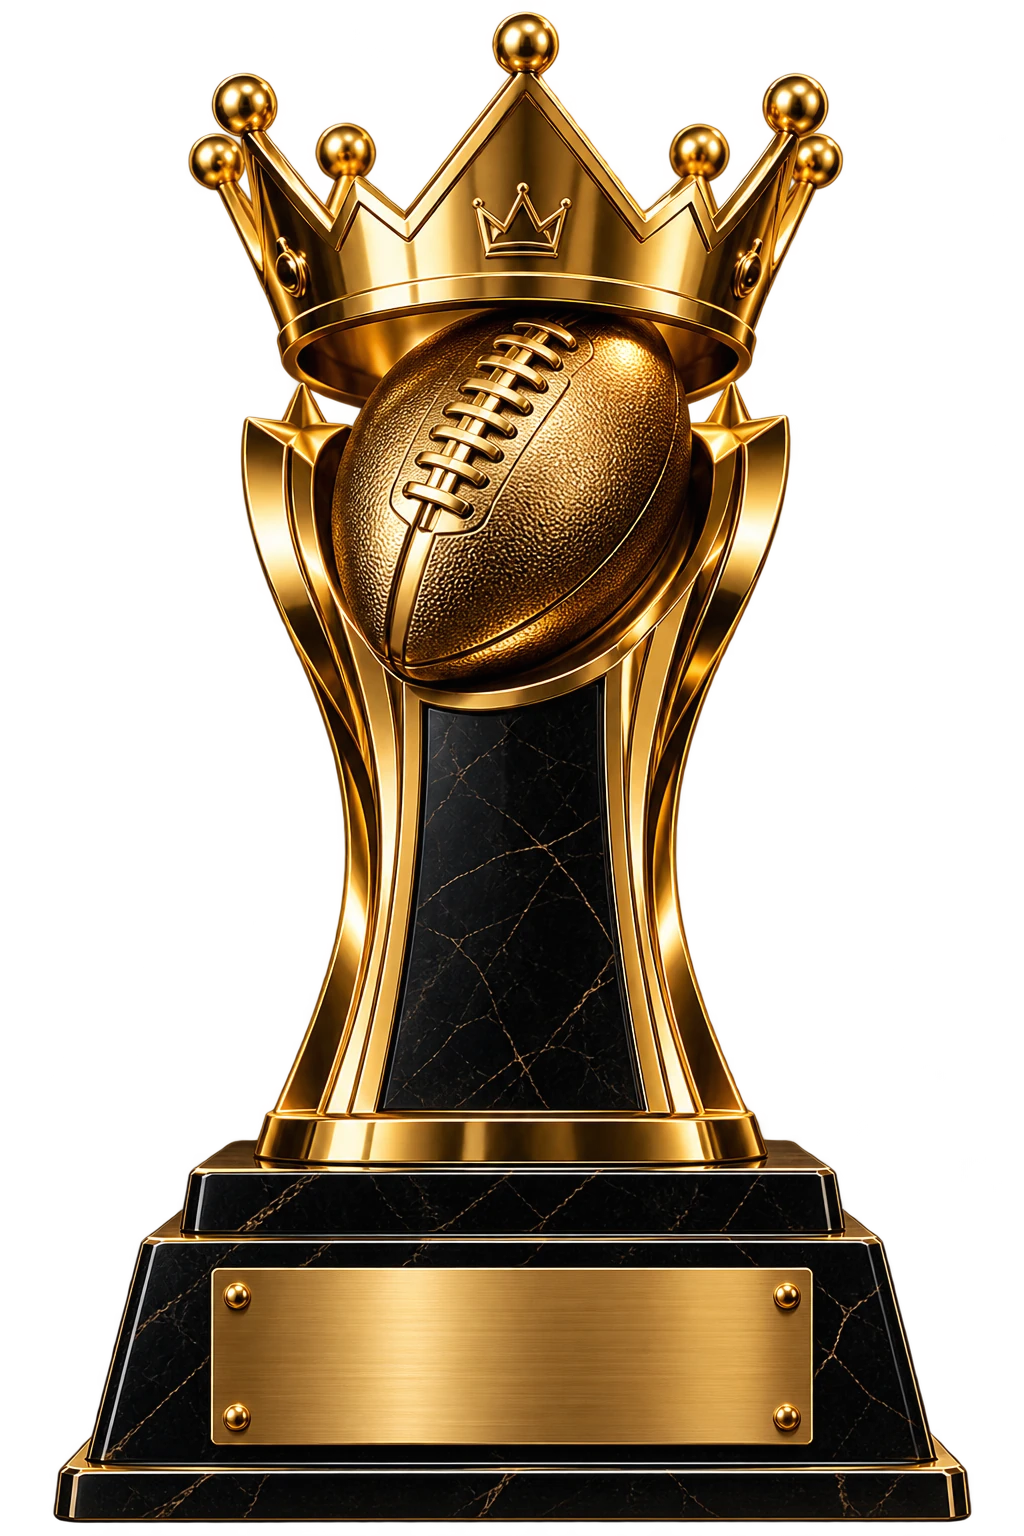
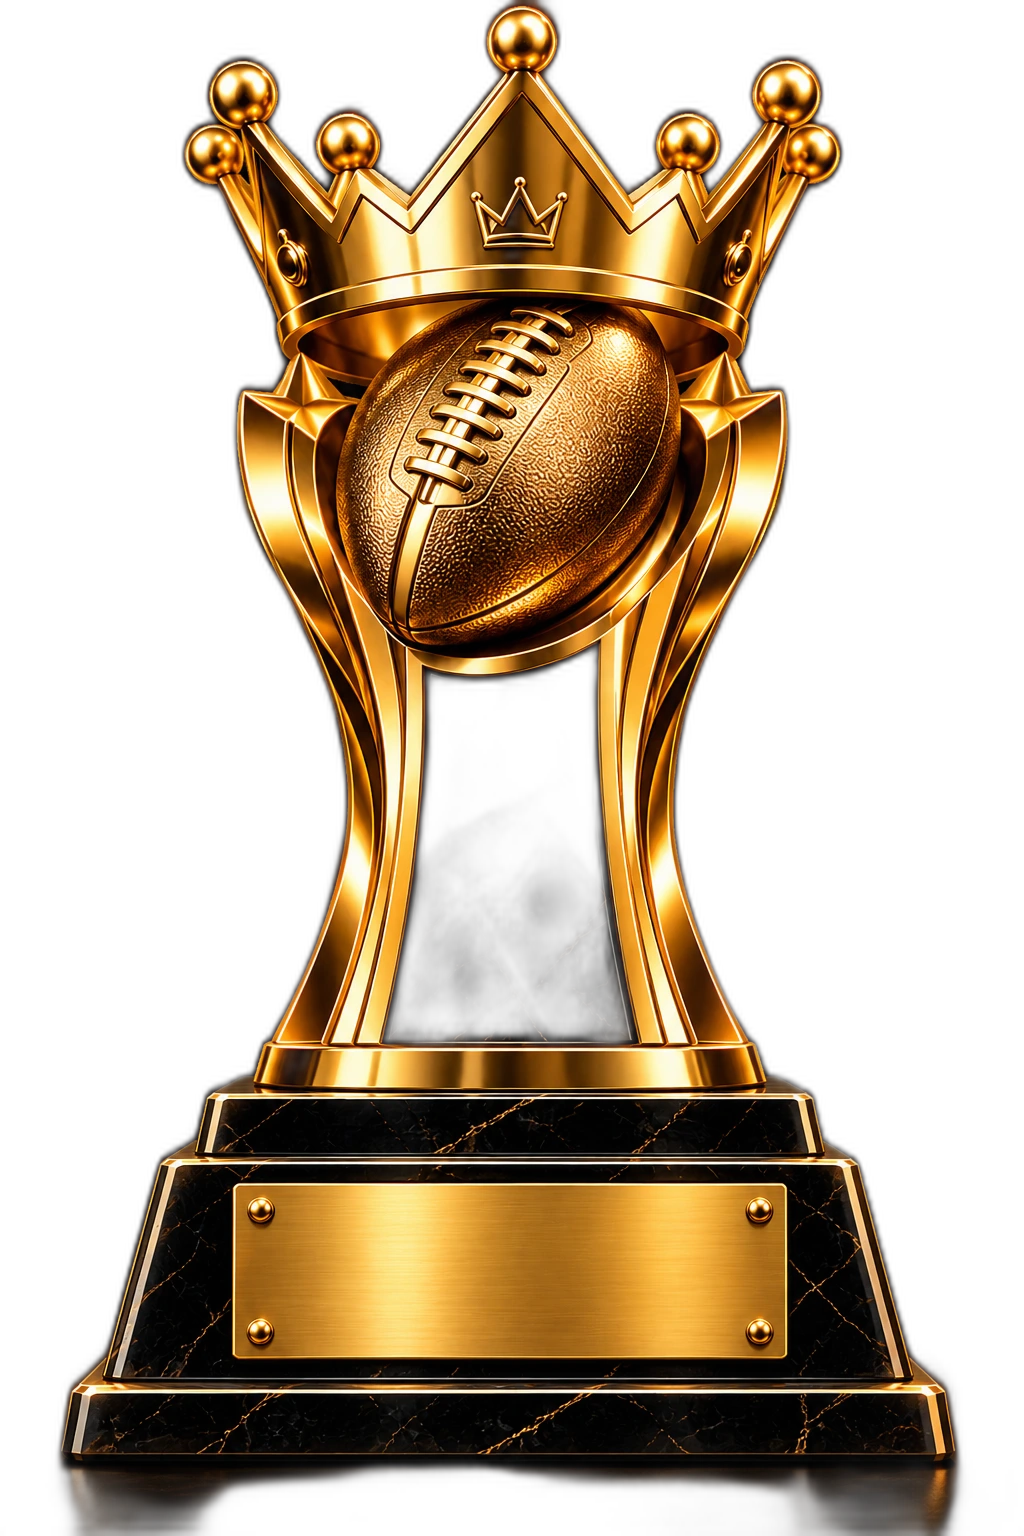
Replace championship trophy art and realign the year faceplate
New gold-crown-and-football trophy replaces championship-trophy.webp,
background-removed (rembg) since the source was a flat black backdrop
with no alpha channel -- verified the cutout keeps the trophy's own
black marble base intact (didn't get eaten by the black-on-black
removal) with clean edges around the crown and football.

Re-measured the blank faceplate against the new art (x:232-786,
y:1185-1358 of the native 1024x1536 image) and moved .td-trophy-year's
CSS box to match, so the season year still drops onto the plate
correctly instead of the old image's now-stale coordinates. Same
1024x1536 aspect ratio and similar on-canvas footprint as the trophy
it replaces, so it drops onto both the desktop and mobile shelf
lighting with no other layout changes needed.

Claude-Session: https://claude.ai/code/session_01NanaG2BenAKHe6ZERBHn6Q

diff --git a/index.html b/index.html
@@ -718,11 +718,14 @@
   .td-trophy-shelf-2{bottom:11.35%;}
   .td-trophy{position:absolute; bottom:0; width:8.2%; aspect-ratio:1024/1536; container-type:inline-size; transform:translateX(-50%);}
   .td-trophy img{width:100%; height:100%; display:block; filter:drop-shadow(0 8px 10px rgba(0,0,0,0.6));}
+  /* Champion trophy's blank faceplate box, measured directly against championship-trophy.webp's
+     native 1024x1536 pixels (plate spans x:232-786, y:1185-1358), inset ~50px horizontally and
+     ~20px vertically to clear the plate's four corner rivets. */
   .td-trophy-year{
-    position:absolute; left:21.5%; width:58.5%; top:82.6%; height:9.8%;
+    position:absolute; left:27.5%; width:44.3%; top:78.4%; height:8.7%;
     display:flex; align-items:center; justify-content:center;
     font-family:'Cinzel', serif; font-weight:700; letter-spacing:0.3px; color:#2a1a08;
-    font-size:clamp(6px, 19cqw, 30px);
+    font-size:clamp(6px, 14.5cqw, 23px);
   }
   /* Runner-up trophy's blank plate sits lower and narrower (rivets flank it) on its own
      art, so its year label gets its own box measured against runnerup-trophy.webp. */
